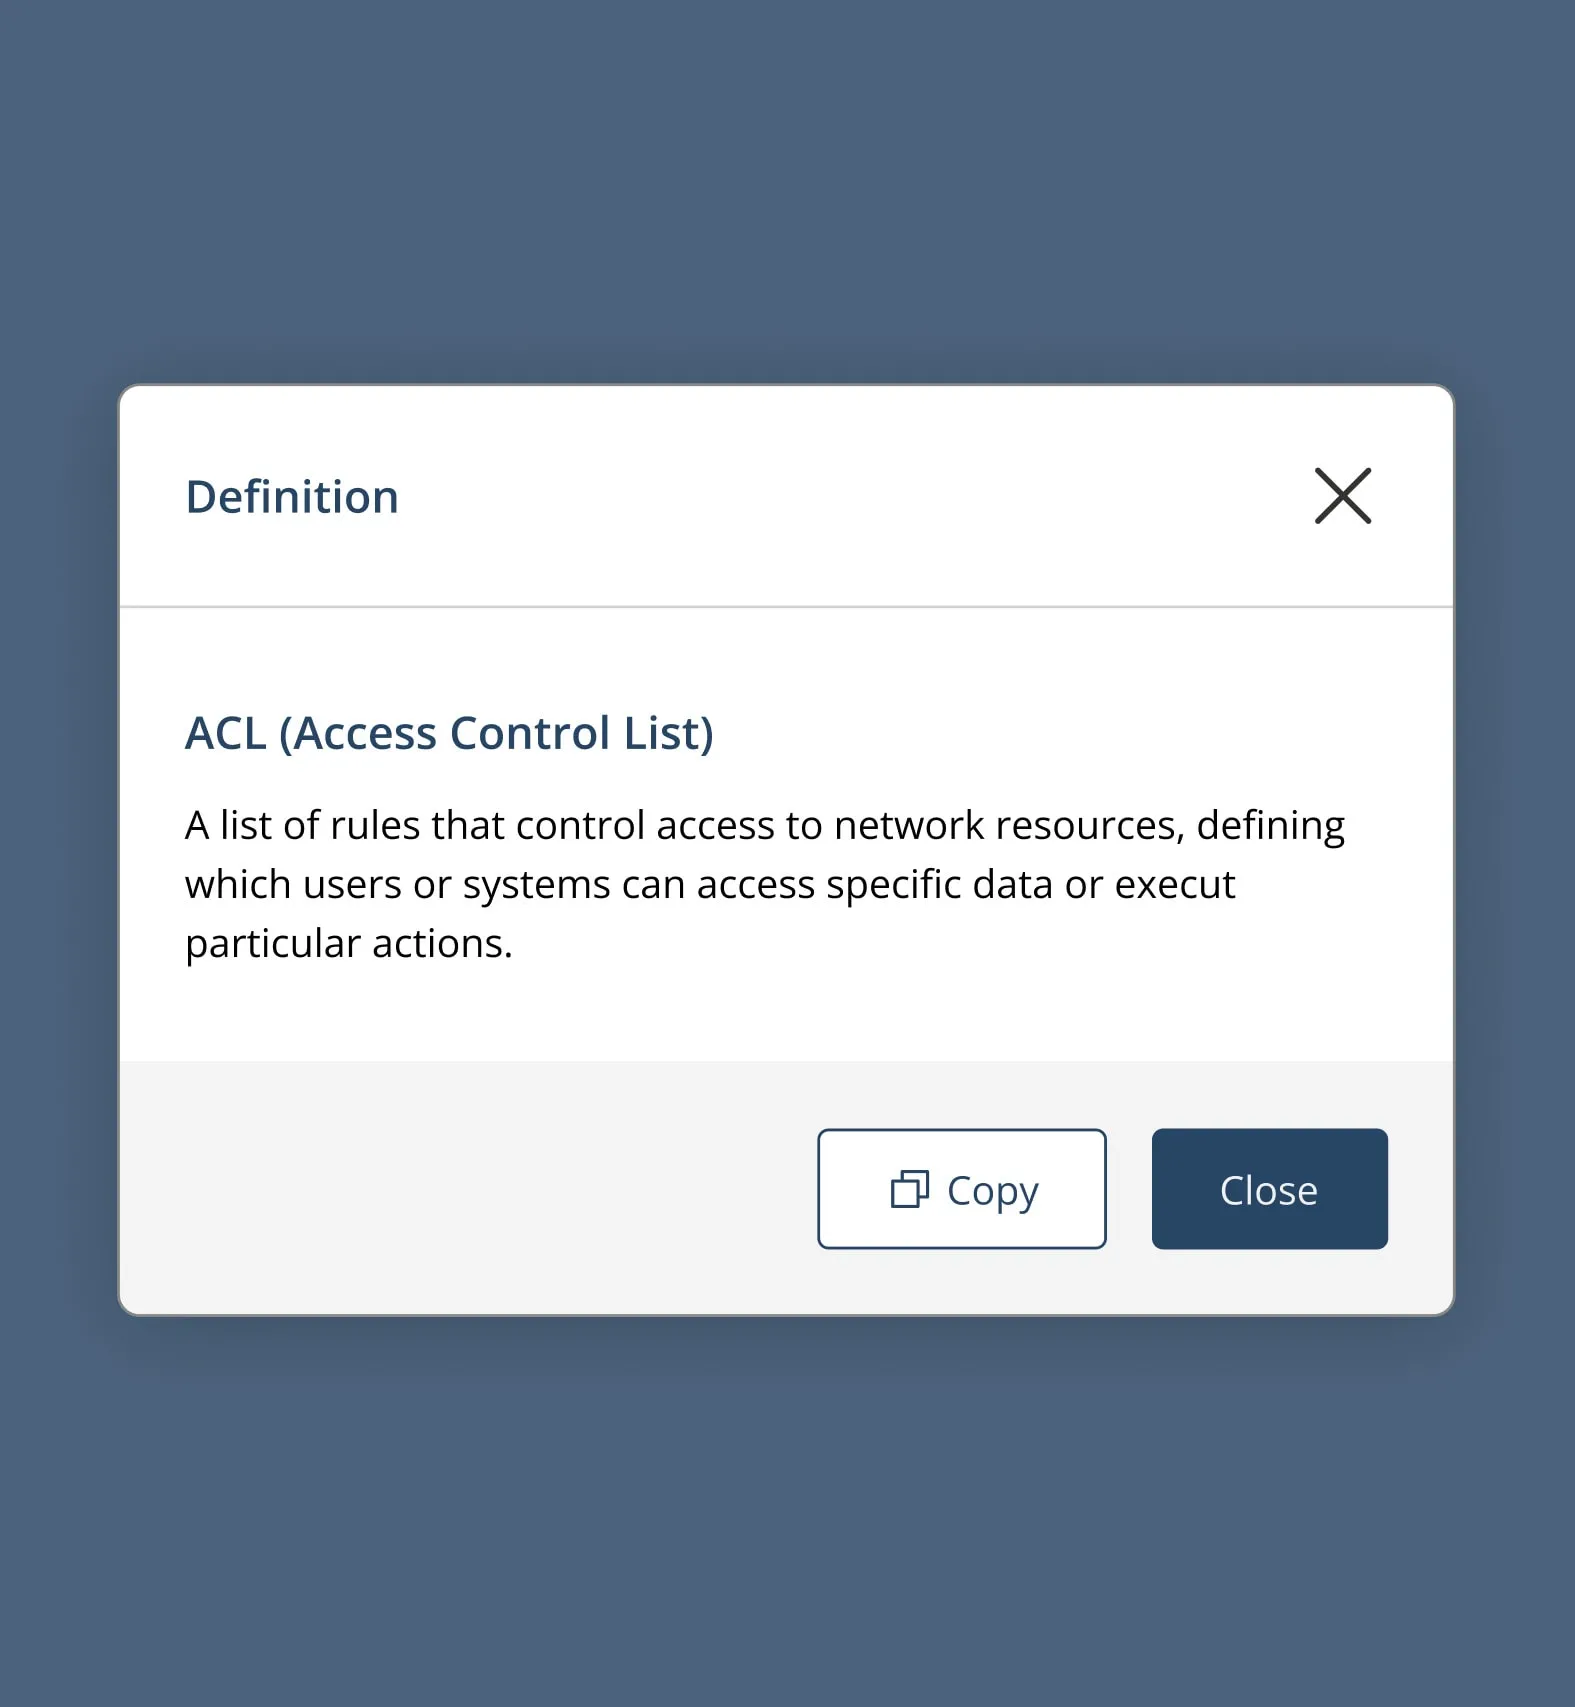
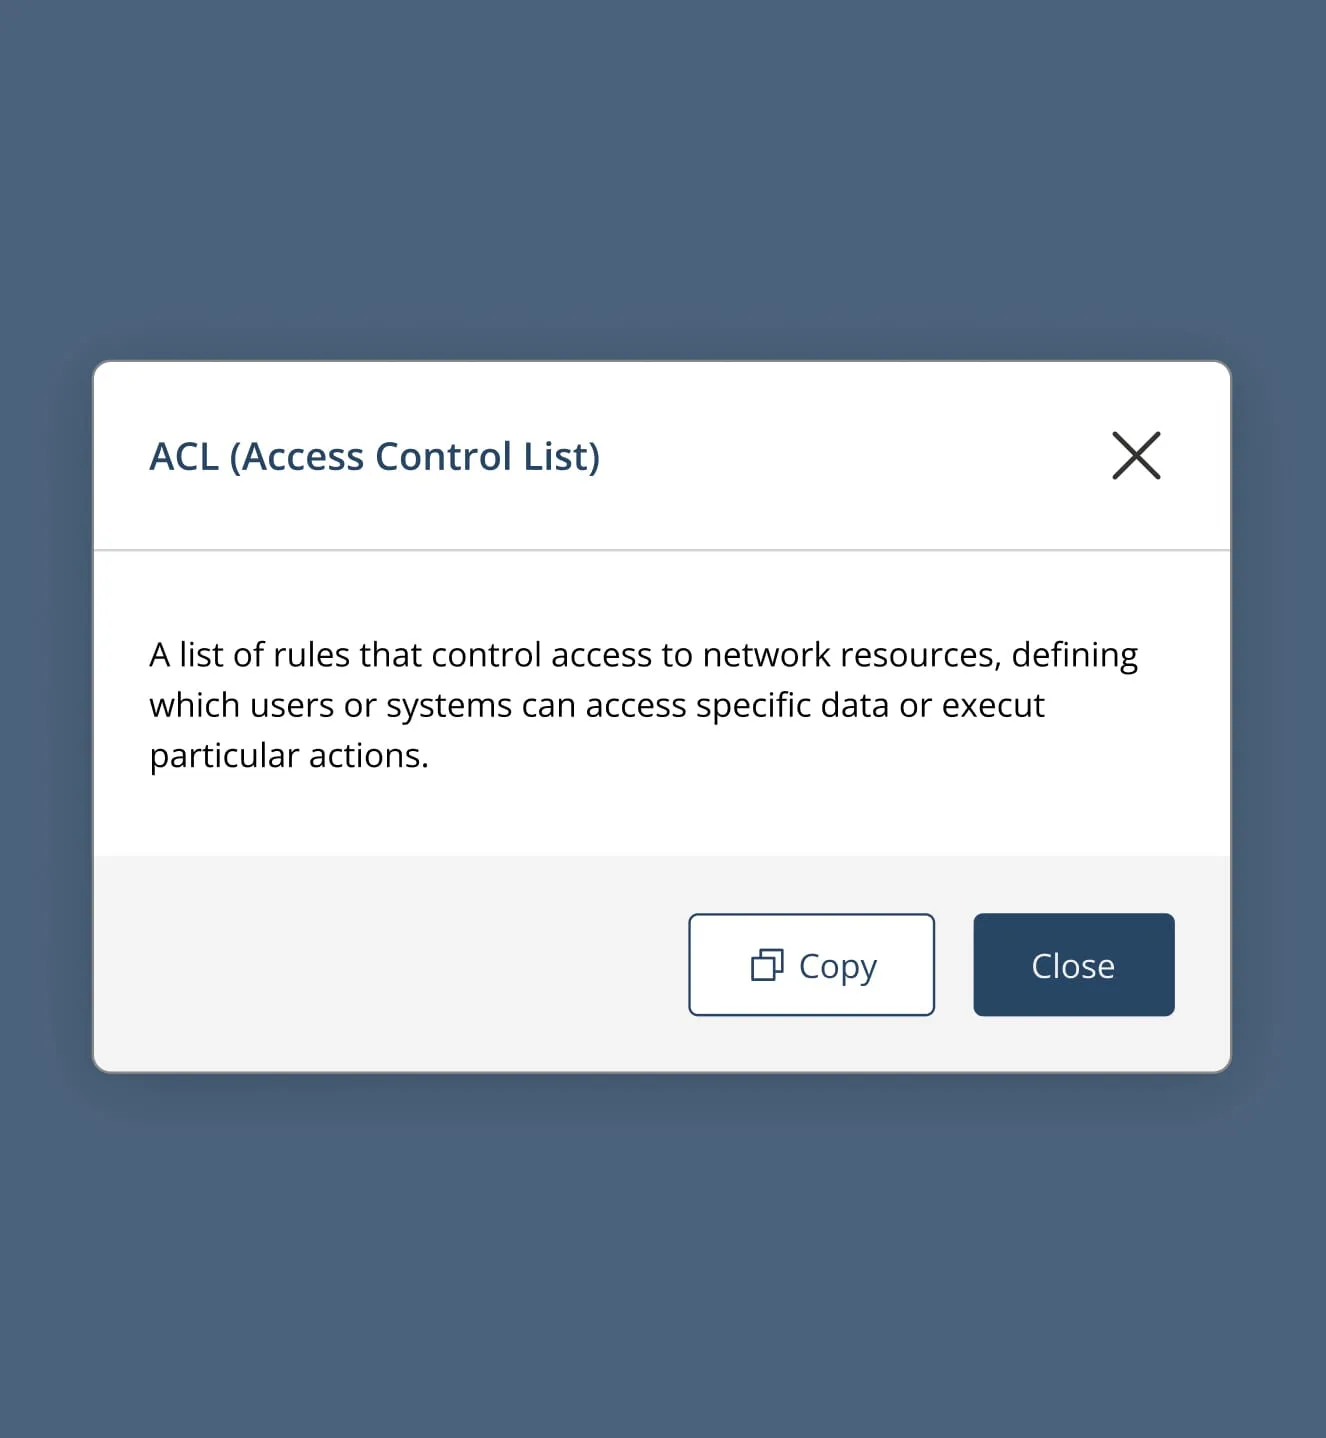
updated some content, and it academy modal image

Changed region(s): [[0.0618, 0.2142, 0.9276, 0.7955]]

diff --git a/assets/css/main.css b/assets/css/main.css
@@ -1,3 +1,4 @@
+@charset "UTF-8";
 /* Box sizing rules */
 *,
 *::before,
@@ -144,6 +145,7 @@ textarea:not([rows]) {
   --shadow: 0 0.938em 2.188em rgba(50, 50, 93, .1), 0 0.313em 0.938em rgba(0, 0, 0, .07);
   --radius: 0.5rem;
   --radius-sm: 0.25rem;
+  --gutter: var(--space-s);
 }
 
 html {
@@ -244,13 +246,26 @@ header h1 {
   max-width: var(--measure);
 }
 
-.col-2 {
+.switcher {
   display: flex;
-  flex-flow: row wrap;
-  gap: var(--space-s);
+  flex-wrap: wrap;
+  /* ↓ The default value is the first point on the modular scale */
+  gap: var(--gutter, var(--space-s));
+  /* ↓ The width at which the layout “breaks” */
+  --threshold: 40ch;
 }
-.col-2 > * {
-  max-width: 32ch;
+
+.switcher > * {
+  /* ↓ Allow children to grow */
+  flex-grow: 1;
+  /* ↓ Switch the layout at the --threshold */
+  flex-basis: calc((var(--threshold) - 100%) * 999);
+}
+
+/* Max 2 items,
+so anything greater than 2 is full width */
+.switcher > :nth-child(n+3) {
+  flex-basis: 100%;
 }
 
 .grid-2 {

diff --git a/src/scss/composition/_index.scss b/src/scss/composition/_index.scss
@@ -44,14 +44,27 @@ header {
   max-width: var(--measure);
 }
 
-.col-2 {
-  display: flex;
-  flex-flow: row wrap;
-  gap: var(--space-s);
 
-  >* {
-    max-width: 32ch;
-  }
+.switcher {
+  display: flex;
+  flex-wrap: wrap;
+  /* ↓ The default value is the first point on the modular scale */
+  gap: var(--gutter, var(--space-s));
+  /* ↓ The width at which the layout “breaks” */
+  --threshold: 40ch;
+}
+
+.switcher>* {
+  /* ↓ Allow children to grow */
+  flex-grow: 1;
+  /* ↓ Switch the layout at the --threshold */
+  flex-basis: calc((var(--threshold) - 100%) * 999);
+}
+
+/* Max 2 items,
+so anything greater than 2 is full width */
+.switcher> :nth-child(n + 3) {
+  flex-basis: 100%;
 }
 
 .grid-2 {

diff --git a/src/scss/defaults/_index.scss b/src/scss/defaults/_index.scss
@@ -58,6 +58,7 @@
   --shadow: 0 0.938em 2.188em rgba(50, 50, 93, .1), 0 0.313em 0.938em rgba(0, 0, 0, .07);
   --radius: 0.5rem;
   --radius-sm: 0.25rem;
+  --gutter: var(--space-s);
 }
 
 html {

diff --git a/layouts/shortcodes/twocol.html b/layouts/shortcodes/twocol.html
@@ -1,3 +1,3 @@
-<div class="col-2">
+<div class="switcher">
   {{ .Inner | markdownify }}
 </div>

diff --git a/content/case-studies/it-academy.md b/content/case-studies/it-academy.md
@@ -70,11 +70,11 @@ The primary objective for this project's design was to ensure a clean, minimalis
     <img alt="Screenshot of a dictionary application's new front page UI" src="/images/it-academy-fp.webp">
 </two-up>
 
-After several years of gaining additional experience in user experience and design, I decided to refresh this application. While I no longer had access to the original Figma file, I used old screenshots as a reference to guide the redesign process.
+After several years of gaining additional experience in user experience and UI design, I decided to refresh this application. While I no longer had access to the original Figma file, I used old screenshots as a reference to guide the redesign process.
 
 The updated design retains much of the original layout but introduces a modernized look and feel. The most significant change is on the dictionary page. I reimagined the layout to feature alphabetized sections of words, giving users a bird's-eye view of the dictionary's contents. As users begin filtering, the view seamlessly transitions to a clean, list-based format with definitions, enhancing usability and clarity.
 
-I added a copy button to each term in the list of definitions, allowing users to quickly copy the content to their clipboard. While this feature wasn’t originally requested, I felt it would be a useful addition for easy access to definitions. I also included a copy button in the definition modal for consistency.
+I added a copy button to each term in the list of definitions, allowing users to quickly copy the content to their clipboard. While this feature wasn’t originally requested, I felt it would be a useful addition for quickly copying and using definitions. I also included a copy button in the definition modal for consistency.
 
 {{< grid-2 >}}
 {{< figure src="/images/it-academy-def-list.webp" alt="Screenshot of IT definitions within the UI" width="404" height="438">}}
@@ -100,7 +100,7 @@ When an admin accesses the IT Academy portal, they are presented with additional
 {{< figure src="/images/it-academy-admin-modal.webp" alt="Screenshot of a modal UI for editing a dictionary term" width="404" height="438" >}}
 {{< /grid-2 >}}
 
-## User testing
+## Quality assurance testing
 
 Prior to launch, extensive user testing was conducted to ensure the application operated seamlessly. I led the testing process, utilizing a structured walkthrough document to guide users through the application's happy path, while documenting any issues or areas for improvement.
 

diff --git a/content/case-studies/recruiting-solutions.md b/content/case-studies/recruiting-solutions.md
@@ -61,6 +61,10 @@ More often than not, I will sketch ideas on paper before moving to Figma. The mo
 
 I developed several wireframe variations to explore the most effective way to display information. Collaborating closely with the VP and a senior recruiter, we ensured the content was organized in the most intuitive and user-friendly manner before moving forward.
 
+#### Keeping it simple
+
+I maintained the main layout for internal pages, keeping information on the left and controls on the right for consistency. My goal was to ensure that all necessary controls were clearly visible upon page load, as simplicity is key when designing internal tools for a large corporation.
+
 {{< figure src="/images/recruiting-solutions-wf.webp" alt="Screenshot of wireframes for a web application" width="831" height="554" >}}
 
 ### Finding the right CMS
@@ -79,9 +83,11 @@ One of the biggest advantages of designing what you’ll develop yourself is the
 
 In late 2024, I decided to refresh this application, starting with a much-needed modern update to the homepage's look and feel. I removed the testimonials section, as it was rarely utilized.
 
-The internal pages received minor updates to components and typography, along with an improved, more intuitive design for the newsletter archive page.
+The secondary pages originally used an accordion pattern for each section, allowing users to collapse content to save space. However, I noticed that users rarely used this feature, and most pages didn’t have enough content to warrant hiding anything. In hindsight, hiding information could be problematic if users overlooked or forgot about it.
 
-## User testing
+The internal pages also received minor updates to components and typography, along with an improved, more intuitive design for the newsletter archive page.
+
+## Quality assurance testing
 
 Before launch, we conducted thorough user testing to ensure the application met all requirements and functioned smoothly across various platforms. Once the application was ready for testing, I prepared a detailed user testing document for every member of the Learning and Development team. This document served as a step-by-step guide for a bug-bashing session, outlining specific tasks and areas to test.
 
